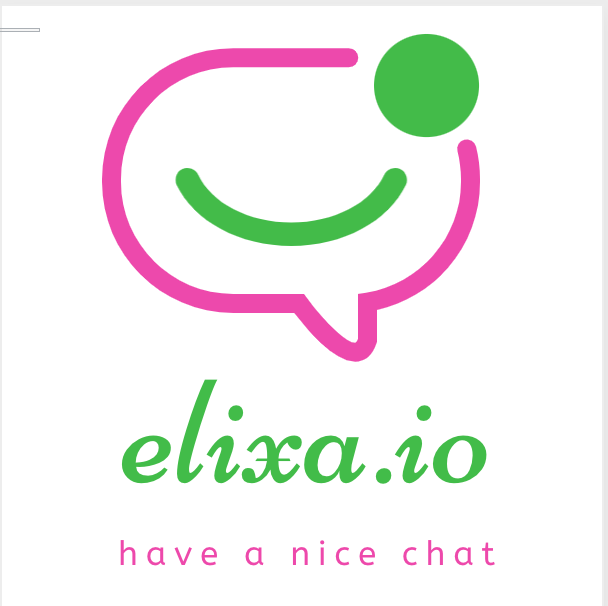
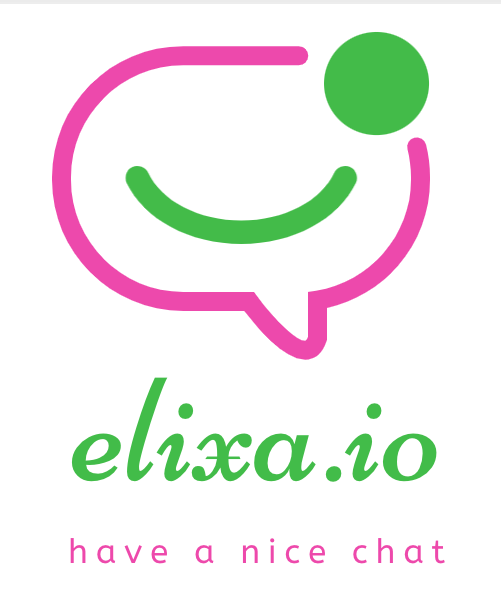
slew of interface touches

diff --git a/index.html b/index.html
@@ -4,9 +4,17 @@
     <meta charset="UTF-8">
     <meta http-equiv="X-UA-Compatible" content="IE=edge">
     <meta name="viewport" content="width=device-width, initial-scale=1.0">
+    <link rel="stylesheet" type="text/css" href="index.css" />
+    <link rel="icon" href="favicon.png">
     <title>elixa.io</title>
   </head>
   <body>
-    <img src="assets/elixa_small.png">
+    <div id=main>
+      <img id="logo" src="assets/elixa.png">
+      <div id="icons">
+        <a href="https://github.com/tara-m-harwood"><img id="logo" src="assets/github.png"/></a>
+        <a href="https://www.linkedin.com/in/taraharwood/"><img id="logo" src="assets/linkedin.png"></a>              
+      </div>
+    </div>
   </body>
 </html>

diff --git a/denver-love.html b/denver-love.html
@@ -32,7 +32,7 @@
               <h5>CHANNELS (4)</h5>
               <p><a href="https://flatiron-school-denver.firebaseapp.com" target="_blank"># denver-se-announce</a></p>
               <p><a href="https://app.slack.com/client/T02MD9XTF/C010H32LNN7" target="_blank"># denver-tech-questions</a></p>
-              <p><a href="https://www.thrillist.com/entertainment/denver/things-to-do-in-denver" target="_blank"># denver-random</a></p>          
+              <p><a href="https://c.xkcd.com/random/comic/" target="_blank"># denver-random</a></p>          
               <p><a href="https://github.com/tara-m-harwood/elixa-newpal-fe/blob/main/README.md" target="_blank"># chatbot-info</a></p>
             </div>
 

diff --git a/styles.css b/styles.css
@@ -9,14 +9,14 @@ body {
     -webkit-font-smoothing: antialiased;
     overflow: hidden;
     background-color: #fff;
-    margin: 0;
+    margin: 0 auto;
     padding: 0;
 }
 
 #search-bar {
     display: block;
     width: 100%;
-    height: 40px;
+    height: 36px;
     background-color: #350E36;
     text-align: center;
     padding-top: 10px;
@@ -174,7 +174,7 @@ span.msg-name {
 
 #input-area {
     width: 100%;
-    height: 172px;
+    height: 160px;
     /* background-color: #2ac44b; */
     /* background-color: #fff;     */
     display: grid;

diff --git a/index.css b/index.css
@@ -1,0 +1,23 @@
+#main {
+  margin: 0 auto;
+  display: flex;
+  flex-direction: column;
+  align-items: center;
+  justify-items: center;
+}
+
+#logo {
+    width: 440px;
+}
+
+#icons{
+    margin: auto;
+    display: flex;
+    align-items: center;
+    justify-items: center;
+}
+
+#icons img{
+    width: 55px;
+    padding: 30px;
+}
